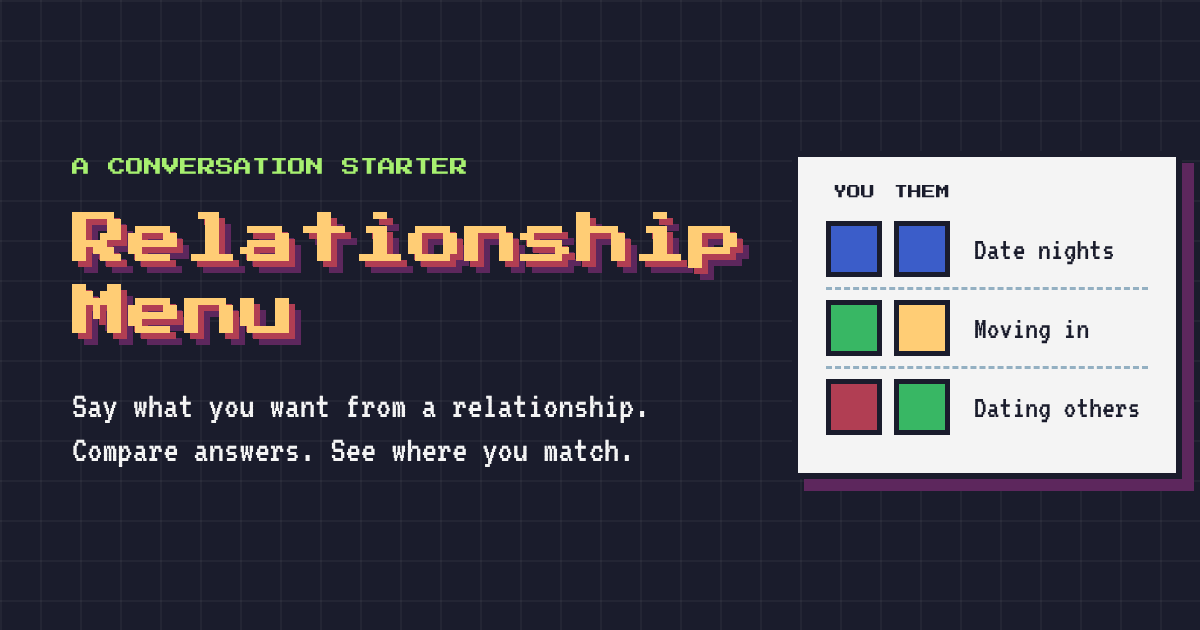
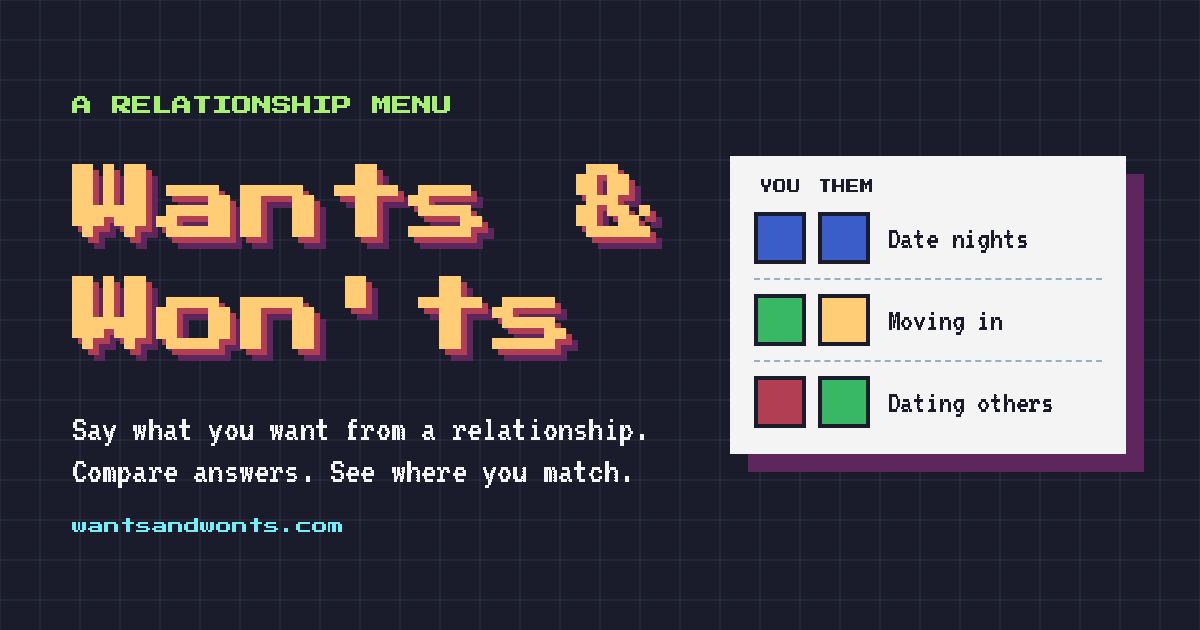
Redraw the social preview with the new name
public/og-image.png said "Relationship Menu". It now says "Wants & Won'ts",
with the kicker "A relationship menu" and the address, drawn in the app's
fonts (Press Start 2P, VT323) and palette.

The image had no source before, so it's now drawn from design/og-image.html:
`yarn og-image` renders it with Playwright's Chromium (same output each run).
The og:image alt text names the app too.

diff --git a/design/og-image.html b/design/og-image.html
@@ -1,0 +1,177 @@
+<!doctype html>
+<!--
+  Source of public/og-image.png, the 1200×630 social preview.
+  Render it with `yarn og-image` (design/render-og-image.mjs).
+  Uses the app's fonts and Sweetie 16 palette (src/index.css).
+-->
+<html lang="en">
+  <head>
+    <meta charset="utf-8" />
+    <title>Wants &amp; Won'ts social preview</title>
+    <style>
+      @font-face {
+        font-family: "Press Start 2P";
+        src: url("../node_modules/@fontsource/press-start-2p/files/press-start-2p-latin-400-normal.woff2")
+          format("woff2");
+      }
+      @font-face {
+        font-family: "VT323";
+        src: url("../node_modules/@fontsource/vt323/files/vt323-latin-400-normal.woff2") format("woff2");
+      }
+      :root {
+        --c-ink: #1a1c2c;
+        --c-plum: #5d275d;
+        --c-red: #b13e53;
+        --c-yellow: #ffcd75;
+        --c-lime: #a7f070;
+        --c-green: #38b764;
+        --c-blue: #3b5dc9;
+        --c-cyan: #73eff7;
+        --c-white: #f4f4f4;
+        --c-mist: #94b0c2;
+        --pixel: "Press Start 2P", monospace;
+        --body: "VT323", monospace;
+      }
+      * {
+        box-sizing: border-box;
+        margin: 0;
+      }
+      html,
+      body {
+        width: 1200px;
+        height: 630px;
+        overflow: hidden;
+      }
+      body {
+        position: relative;
+        background-color: var(--c-ink);
+        background-image: linear-gradient(rgba(148, 176, 194, 0.07) 2px, transparent 2px),
+          linear-gradient(90deg, rgba(148, 176, 194, 0.07) 2px, transparent 2px);
+        background-size: 40px 40px;
+        background-position: -1px -1px;
+        color: var(--c-white);
+        -webkit-font-smoothing: none;
+      }
+
+      .words {
+        position: absolute;
+        left: 72px;
+        top: 96px;
+        width: 640px;
+      }
+      .kicker {
+        font-family: var(--pixel);
+        font-size: 20px;
+        line-height: 1;
+        color: var(--c-lime);
+        text-transform: uppercase;
+      }
+      h1 {
+        margin-top: 34px;
+        font-family: var(--pixel);
+        font-weight: normal;
+        font-size: 84px;
+        line-height: 112px;
+        color: var(--c-yellow);
+        text-shadow: 6px 6px 0 var(--c-red), 12px 12px 0 var(--c-plum);
+      }
+      .lead {
+        margin-top: 34px;
+        font-family: var(--body);
+        font-size: 38px;
+        line-height: 42px;
+      }
+      .address {
+        margin-top: 26px;
+        font-family: var(--pixel);
+        font-size: 16px;
+        line-height: 1;
+        color: var(--c-cyan);
+      }
+
+      .card {
+        position: absolute;
+        left: 730px;
+        top: 156px;
+        width: 396px;
+        padding: 24px 24px 26px;
+        background: var(--c-white);
+        color: var(--c-ink);
+        box-shadow: 18px 18px 0 0 var(--c-plum);
+      }
+      .heads {
+        display: flex;
+        gap: 12px;
+        font-family: var(--pixel);
+        font-size: 14px;
+        line-height: 1;
+        text-transform: uppercase;
+        margin-bottom: 18px;
+      }
+      .heads span {
+        width: 52px;
+        text-align: center;
+      }
+      .row {
+        display: flex;
+        align-items: center;
+        gap: 12px;
+        padding: 14px 0;
+        border-top: 2px dashed var(--c-mist);
+      }
+      .heads + .row {
+        border-top: 0;
+        padding-top: 0;
+      }
+      .row:last-child {
+        padding-bottom: 0;
+      }
+      .sq {
+        width: 52px;
+        height: 52px;
+        border: 4px solid var(--c-ink);
+        flex: none;
+      }
+      .item {
+        margin-left: 6px;
+        font-family: var(--body);
+        font-size: 32px;
+        line-height: 1;
+        white-space: nowrap;
+      }
+      .blue {
+        background: var(--c-blue);
+      }
+      .green {
+        background: var(--c-green);
+      }
+      .yellow {
+        background: var(--c-yellow);
+      }
+      .red {
+        background: var(--c-red);
+      }
+    </style>
+  </head>
+  <body>
+    <div class="words">
+      <p class="kicker">A relationship menu</p>
+      <h1>Wants &amp;<br />Won'ts</h1>
+      <p class="lead">Say what you want from a relationship.<br />Compare answers. See where you match.</p>
+      <p class="address">wantsandwonts.com</p>
+    </div>
+
+    <div class="card" aria-hidden="true">
+      <div class="heads"><span>You</span><span>Them</span></div>
+      <div class="row">
+        <span class="sq blue"></span><span class="sq blue"></span><span class="item">Date nights</span>
+      </div>
+      <div class="row">
+        <span class="sq green"></span><span class="sq yellow"></span><span class="item">Moving in</span>
+      </div>
+      <div class="row">
+        <span class="sq red"></span><span class="sq green"></span><span class="item">Dating others</span>
+      </div>
+    </div>
+  </body>
+</html>

diff --git a/index.html b/index.html
@@ -24,13 +24,13 @@
       content="Say what you want from a relationship, compare answers with your partner, and see where you match."
     />
     <meta property="og:url" content="https://wantsandwonts.com/" />
-    <!-- The image still says "Relationship Menu"; to be redrawn with the new name. -->
+    <!-- Drawn from design/og-image.html: run `yarn og-image` after changing it. -->
     <meta property="og:image" content="https://wantsandwonts.com/og-image.png" />
     <meta property="og:image:width" content="1200" />
     <meta property="og:image:height" content="630" />
     <meta
       property="og:image:alt"
-      content="Two people's answers shown side by side as colored squares"
+      content="Wants &amp; Won'ts, a relationship menu: two people's answers shown side by side as colored squares"
     />
     <meta name="twitter:card" content="summary_large_image" />
     <title>Wants &amp; Won'ts: a relationship menu</title>
